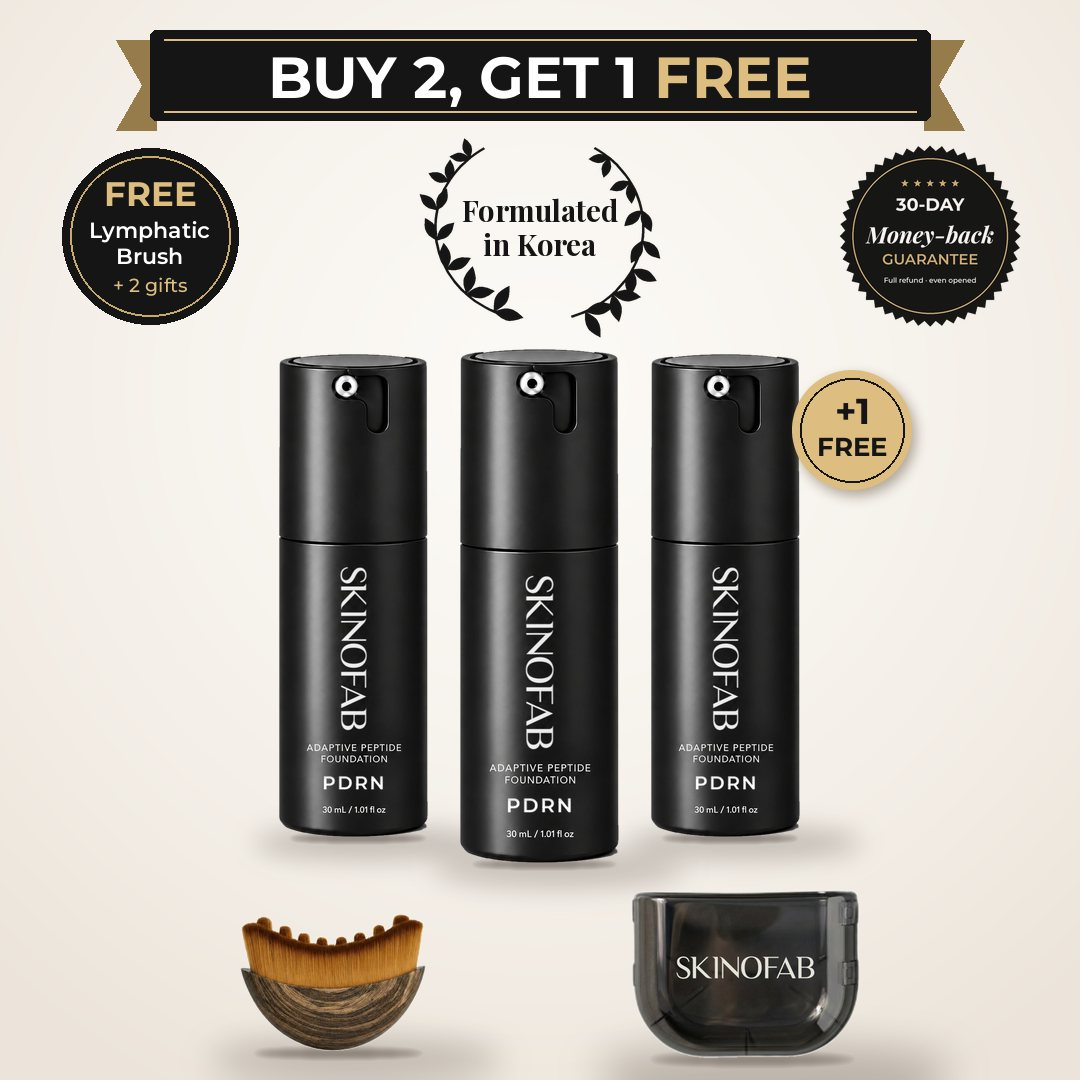
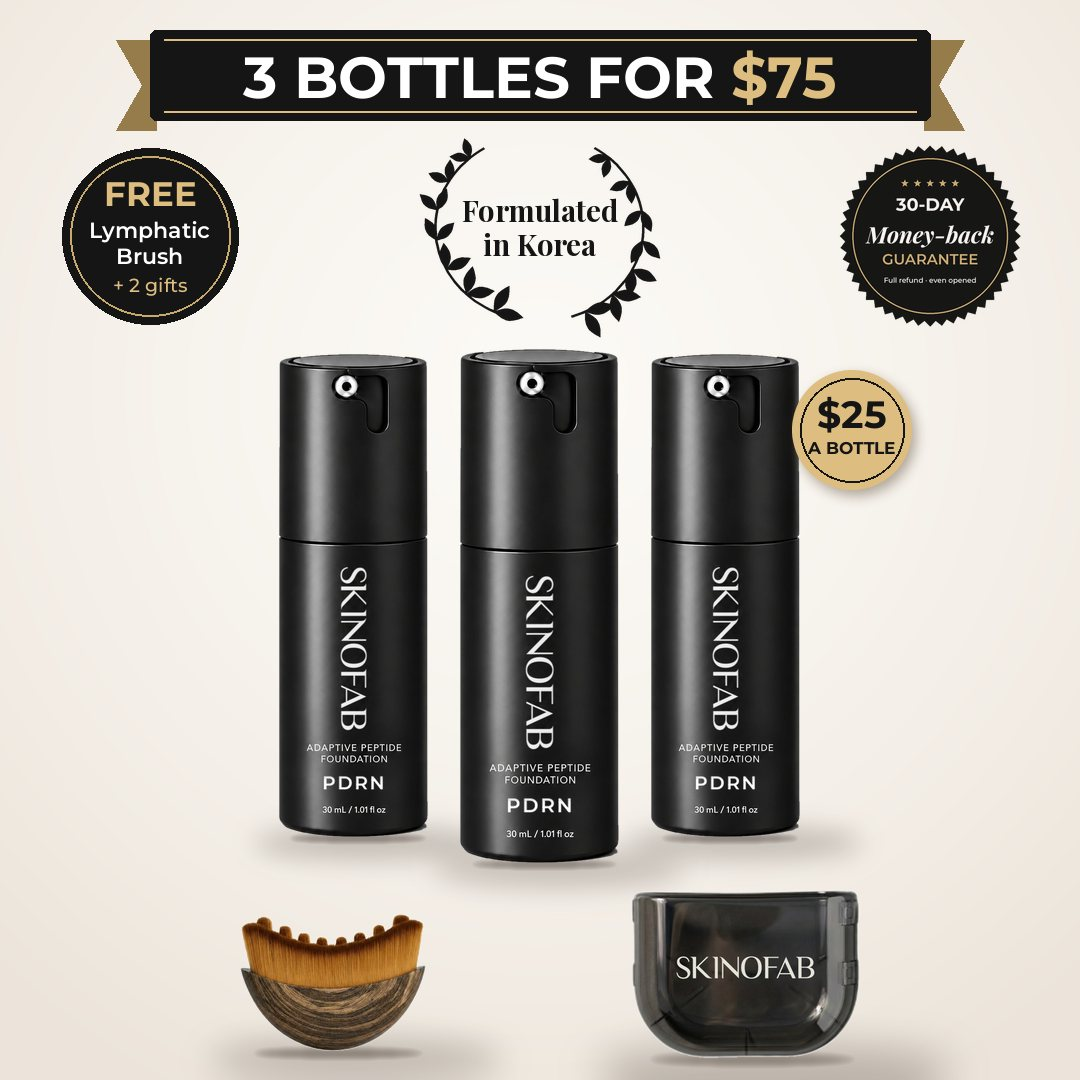
APF funnel: the 3-bottle pack is "3 bottles for $75, $25 a bottle", no free-bottle claim (owner, before the ads)
- Sales page, listicle and checkout: offer bars, hero deal line, pack tab and badge ("Best value"), pack rows (the
  "3rd bottle FREE" row gone), value stack and the listicle's offer box quote the price per bottle; offer-3.jpg's
  ribbon reads "3 BOTTLES FOR $75" with a "$25 a bottle" tag. No price changed.
- check_apf.py fails any page that says buy 2 get 1 free, pay for 2, the 3rd bottle free or +1 free
- funnels/apf.py, copy deck and docs follow (live review 7, B1, decided by the owner)

Claude-Session: https://claude.ai/code/session_01DD3dpN8XTMfDVHXy9eWksc

Changed region(s): [[0.2139, 0.0306, 0.7944, 0.0917], [0.7333, 0.3667, 0.825, 0.4278]]

diff --git a/campaigns/skinofab/src/apf-funnel/adaptive-foundation-offer.html b/campaigns/skinofab/src/apf-funnel/adaptive-foundation-offer.html
@@ -23,8 +23,8 @@ meta_tags:
 # tools/funnel/apf/copy_deck.py; tools/funnel/apf/check_apf.py holds every price here to the live campaign and
 # every claim to the rules: adapts to your tone (never every tone), designed not to settle, no SPF, no study, no
 # doctor, no countdown, every AI portrait labelled.
-offer_bar: "BUY 2, GET 1 FREE + a FREE Lymphatic Brush · Free shipping · 30-day money-back guarantee"
-offer_bar_short: "Buy 2, get 1 FREE"
+offer_bar: "3 BOTTLES FOR $75 + a FREE Lymphatic Brush · Free shipping · 30-day money-back guarantee"
+offer_bar_short: "3 bottles for $75"
 hero:
   eyebrow: "For skin after 45"
   headline: "Even, fresh skin in about a minute. <em>No shade to guess.</em>"
@@ -37,8 +37,9 @@ hero:
     - "<strong>30-day money-back guarantee,</strong> even opened."
   trust: ["4.8 out of 5 from 9,855 reviews at our earlier store", "Formulated in Korea", "One-time purchase, free shipping"]
   button: "CHOOSE MY PACK ↓"
-  # the buy-2-get-1-free offer (the owner, 29 Oct 2026), true as priced: 3 bottles are $75, 2 single bottles $78
-  deal: "<strong>Buy 2, get 1 FREE</strong> · 3 bottles for $75, less than two single bottles ($78)"
+  # the 3-bottle pack at its price per bottle (the owner, 29 Oct 2026, before the ads: no "buy 2, get 1 free", which the
+  # $57 2-bottle pack beside it made untrue; live review 7, B1)
+  deal: "<strong>3 bottles for $75</strong> · $25 a bottle, with a free Lymphatic Brush"
   note: "$25 a bottle in the 3-pack · Free shipping · Pay with card, PayPal, Apple Pay, Klarna or Link"
   image: "images/sf/wow.jpg"
   image_alt: "A woman in her late fifties: white foundation dots on one side of her face, the other side blended into her own tone"
@@ -58,7 +59,7 @@ guarantee:
 # the packs: campaign packages 6, 7, 8 (one-time, free shipping); the crossed-out price is the store's $47 times the bottles
 offer:
   title: "Choose your pack"
-  lead: "<strong>Buy 2, get 1 FREE</strong> in the 3-bottle pack, with the free Lymphatic Brush. Every pack is a one-time purchase and ships free."
+  lead: "<strong>3 bottles for $75</strong>, $25 a bottle, with the free Lymphatic Brush. Every pack is a one-time purchase and ships free."
   button: "GET MY FOUNDATION"
   trust: ["Free shipping", "Ships in 1 business day", "Secure checkout", "30-day money-back guarantee"]
   once: "One-time purchase. Nothing renews, and nothing is added at checkout: shipping is free."
@@ -88,17 +89,16 @@ packs:
   - id: "apf-3"
     package: 3
     name: "3 bottles"
-    short: "3 bottles · Buy 2, get 1 FREE"
-    supply: "Pay for 2, the 3rd is FREE · about three months · $25 a bottle"
+    short: "3 bottles · $25 a bottle"
+    supply: "About three months · $25 a bottle"
     price: "$75"
     compare: "$141"
     save: "SAVE $66"
-    tab: "Buy 2, get 1 FREE"
+    tab: "Best value"
     deal: true
     selected: true
-    label: "3 bottles (buy 2, get 1 free) with 3 free gifts, free shipping"
+    label: "3 bottles with 3 free gifts, free shipping"
     gifts:
-      - { image: "images/sf/pack-1.jpg", name: "3rd bottle FREE", value: "$39" }
       - { image: "images/sf/brush-card.jpg", name: "FREE Lymphatic Brush + case", value: "$24.95" }
       - { image: "images/sf/gift-blender.jpg", name: "FREE SKINOFAB Blender sponge", value: "$9" }
       - { image: "images/sf/gift-mystery.jpg", name: "FREE Mystery gift", value: "$15" }
@@ -268,17 +268,17 @@ guarantee_section:
   why: "We can promise this because of what 9,855 reviews say about it. Read them above, then decide in your own light."
 value:
   eyebrow: "Your launch offer"
-  title: "Buy 2, get the 3rd bottle FREE"
+  title: "3 bottles for $75, the brush and gifts free"
   stack:
-    - { item: "3 bottles of Adaptive Peptide Foundation: pay for 2, the 3rd is free (about three months)", value: "$141" }
+    - { item: "3 bottles of Adaptive Peptide Foundation (about three months)", value: "$141" }
     - { item: "The Lymphatic Brush with its travel case", value: "$24.95" }
     - { item: "The SKINOFAB Blender sponge", value: "$9" }
     - { item: "A mystery gift from our range", value: "$15" }
     - { item: "Free shipping, tracked", value: "included" }
     - { item: "30-day money-back guarantee", value: "included" }
   total: { item: "Total value", value: "$189.95" }
-  today: { item: "Buy 2, get 1 FREE, today", value: "$75" }
-  math: "Two single bottles cost $78 here. The 3-bottle pack is $75: you pay less than for two, and the third bottle, the brush and both gifts come free."
+  today: { item: "Your price today", value: "$75" }
+  math: "That is $25 a bottle: one bottle is $39 here and $47 bought once in our store. The brush and both gifts come free."
   why_now: "<strong>Why the 3-bottle pack is only here:</strong> our store has no 3-bottle pack, and none of its foundation packs comes with the Lymphatic Brush; one bottle there is $47 bought once. The 3-bottle pack with the free brush is made for this launch. There is no countdown on this page, and no pack costs more than it says here."
 scarcity:
   title: "What is limited"
@@ -649,7 +649,7 @@ closing:
       <div>
         <p class="sf-eyebrow">{{ value.eyebrow }}</p>
         <h2 class="sf-h2 sf-h2--big">{{ value.title }}</h2>
-        <img src="{{ 'images/sf/offer-3.jpg' | campaign_asset }}" alt="Buy 2, get 1 free: three bottles of Adaptive Peptide Foundation, the third marked free, with the free Lymphatic Brush and its case, under three badges: free Lymphatic Brush and 2 gifts, formulated in Korea, 30-day money-back guarantee" width="1080" height="1080" loading="lazy" decoding="async" class="sf-value__img">
+        <img src="{{ 'images/sf/offer-3.jpg' | campaign_asset }}" alt="3 bottles for $75: three bottles of Adaptive Peptide Foundation, $25 a bottle, with the free Lymphatic Brush and its case, under three badges: free Lymphatic Brush and 2 gifts, formulated in Korea, 30-day money-back guarantee" width="1080" height="1080" loading="lazy" decoding="async" class="sf-value__img">
         <ul class="sf-stack">
           {% for s in value.stack %}<li><span>{{ s.item }}</span><span>{{ s.value }}</span></li>{% endfor %}
           <li class="sf-stack__total"><span>{{ value.total.item }}</span><span>{{ value.total.value }}</span></li>

diff --git a/campaigns/skinofab/src/apf-funnel/10-reasons-adaptive-foundation.html b/campaigns/skinofab/src/apf-funnel/10-reasons-adaptive-foundation.html
@@ -26,8 +26,8 @@ meta_tags:
 # one with their photos, the packshots on natural shadows, the offer box rebuilt around a wordless flat lay and a
 # value stack. Every claim is the sales page's: adapts to your tone (never every tone), designed not to settle, no
 # SPF, no study, no doctor, no countdown.
-offer_bar: "BUY 2, GET 1 FREE + a FREE Lymphatic Brush · Free shipping"
-offer_bar_short: "Buy 2, get 1 FREE"
+offer_bar: "3 BOTTLES FOR $75 + a FREE Lymphatic Brush · Free shipping"
+offer_bar_short: "3 bottles for $75"
 headline: "10 Reasons Why Women Over 45 Look Fresher With This ‘Shade-Adapting’ Foundation"
 subhead: "It goes on white and adapts to your skin tone as you blend, in a hydrating serum made for skin after 45: no shade to guess, a finish designed not to settle into lines, about a minute with your fingertips."
 intro:
@@ -142,20 +142,20 @@ mid_cta:
 # the lowest price, no value table; every button opens the sales page, where she reads the rest and picks her pack
 cta:
   eyebrow: "Your launch offer"
-  title: "Buy 2, get 1 FREE + a FREE Lymphatic Brush"
+  title: "3 bottles for $75 + a FREE Lymphatic Brush"
   points:
-    - "<strong>The 3rd bottle free</strong> when you buy 2"
+    - "<strong>$25 a bottle</strong> in the 3-bottle pack"
     - "<strong>FREE Lymphatic Brush</strong>, a Blender sponge and a mystery gift"
     - "<strong>Free shipping</strong>, one-time purchase, nothing renews"
     - "<strong>30-day money-back guarantee</strong>, even opened"
   from: "$25"
   from_unit: "a bottle"
-  from_note: "With buy 2, get 1 FREE. Or start with 1 bottle for $39."
+  from_note: "In the 3-bottle pack ($75). Or start with 1 bottle for $39."
   button: "SEE THE OFFER →"
   note: "FREE SHIPPING · ONE-TIME PURCHASE · 30-DAY MONEY-BACK GUARANTEE"
   image_alt: "The Adaptive Peptide Foundation: three bottles with the free Lymphatic Brush and its case"
-  price: "From $25 a bottle with buy 2, get 1 FREE (3 bottles for $75, less than two single bottles at $78), or 1 bottle for $39. One-time purchase: nothing renews. This offer is only in this launch; our store sells one bottle for $47."
-  text: "Buy 2, get 1 FREE: from $25 a bottle, with a FREE Lymphatic Brush, 2 free gifts and free shipping. Or 1 bottle for $39."
+  price: "From $25 a bottle in the 3-bottle pack ($75), or 1 bottle for $39. One-time purchase: nothing renews. This offer is only in this launch; our store sells one bottle for $47."
+  text: "From $25 a bottle, with a FREE Lymphatic Brush, 2 free gifts and free shipping. Or 1 bottle for $39."
 reviews:
   excellent: "Rated"
   stars: "4.8 out of 5 · 9,855 reviews of this foundation"

diff --git a/campaigns/skinofab/src/apf-funnel/foundation-checkout.html b/campaigns/skinofab/src/apf-funnel/foundation-checkout.html
@@ -160,8 +160,8 @@ bundles:
     image: "images/sf/pack-3.jpg"
     name: "Adaptive Peptide Foundation - 3 bottles + free gifts + free Lymphatic Brush"
     price: "$75.00"
-    subtitle_text: "One-time. Buy 2, get 1 FREE: pay for 2, the 3rd bottle is free. Free shipping, a free Lymphatic Brush, a free Blender sponge and a free mystery gift"
-    badge_text: "Buy 2, get 1 FREE"
+    subtitle_text: "One-time. $25 a bottle. Free shipping, a free Lymphatic Brush, a free Blender sponge and a free mystery gift"
+    badge_text: "Best value"
     badge_pill_class: "os-card__label--pill-primary"
   - id: "apf-1"
     package_id: 1
@@ -175,7 +175,7 @@ bundles:
 # the order too) and by the button; sf-checkout.js keeps the pack's line in step with the chosen card
 pay_terms:
   apf-2: "2 bottles with a free Blender sponge and a free mystery gift"
-  apf-3: "3 bottles (buy 2, get 1 free) with a free Lymphatic Brush, a free Blender sponge and a free mystery gift"
+  apf-3: "3 bottles with a free Lymphatic Brush, a free Blender sponge and a free mystery gift"
   apf-1: "1 bottle"
 once_terms: "A one-time purchase: nothing renews and nothing else is charged. Every pack has the same 30-day money-back guarantee. Contains salmon-derived PDRN: not for anyone with a fish allergy. Questions? Email <a href=\"mailto:info@skinofab.com\">info@skinofab.com</a> or call <a href=\"tel:+15632395520\">+1 (563) 239-5520</a>: a person replies within one business day."
 # the exit pop: the bottle (the pack she picked may not be the 3-pack), one offer said once, the saving applied at the button

diff --git a/tools/funnel/apf/images.py b/tools/funnel/apf/images.py
@@ -224,9 +224,9 @@ def pack_cards():
 
     for n, wb, name in ((1, False, 'pack-1'), (2, False, 'pack-2'), (3, True, 'pack-3'), (6, True, 'pack-6')):
         save(scene(n, wb, 900, 'white'), name, size=700)
-    # the sales page's 3-pack: the buy-2-get-1-free ribbon over its three badges (the owner, 29 Oct 2026: "add the offer
-    # of buy 2 get one free"; true as priced: 3 bottles are $75, 2 single bottles $78), the scene a little smaller
-    # under them, and a "+1 FREE" tag beside the third bottle's cap (never on a label)
+    # the sales page's 3-pack: a "3 bottles for $75" ribbon over its three badges, the scene a little smaller under them,
+    # and a "$25 a bottle" tag beside the third bottle's cap (never on a label). (It said "buy 2, get 1 free" until the
+    # owner chose, 29 Oct 2026, to drop that claim: the $57 2-bottle pack beside it made it untrue, live review 7.)
     k, A, s3 = 0.86, 1050, 1080 / 900
     items = [(bot, 270, 670, 470), (bot, 630, 670, 470), (bot, 450, 695, 500), (brush, 250, 878, 135), (case, 650, 884, 165)]
     im = stage(1080, [(o, 540 + (x * s3 - 540) * k, A - (A - y * s3) * k, h * s3 * k) for o, x, y, h in items], 'warm')
@@ -237,7 +237,7 @@ def pack_cards():
     d.polygon([(x1 + 34, y0 + 10), (x1 - 6, y0 + 10), (x1 - 6, y1 + 10), (x1 + 34, y1 + 10), (x1 + 34 - notch, (y0 + y1) / 2 + 10)], fill=(150, 124, 74))
     d.rounded_rectangle((x0, y0, x1, y1), radius=6, fill=INK)
     d.line((x0 + 14, y0 + 9, x1 - 14, y0 + 9), fill=GOLD, width=2); d.line((x0 + 14, y1 - 9, x1 - 14, y1 - 9), fill=GOLD, width=2)
-    f = P.sans(58, 'Bold'); a, b = 'BUY 2, GET 1 ', 'FREE'
+    f = P.sans(58, 'Bold'); a, b = '3 BOTTLES FOR ', '$75'
     wa, wb = d.textlength(a, font=f), d.textlength(b, font=f)
     tx = (x0 + x1) / 2 - (wa + wb) / 2
     d.text((tx, (y0 + y1) / 2 + 2), a, font=f, fill=PAPER, anchor='lm'); d.text((tx + wa, (y0 + y1) / 2 + 2), b, font=f, fill=GOLD, anchor='lm')
@@ -253,7 +253,7 @@ def pack_cards():
     d.text((540, 256), 'in Korea', font=P.serif(29, 'Bold'), fill=INK, anchor='ms')
     seal = Image.open(OUT / 'guarantee-seal.png').convert('RGBA'); seal.thumbnail((184, 184), Image.LANCZOS)
     im.paste(seal, (1080 - 58 - seal.width, 236 - seal.height // 2), seal)
-    tag = Image.new('L', (4 * 120, 4 * 120), 0); ImageDraw.Draw(tag).ellipse((0, 0, 479, 479), fill=255)   # the +1 FREE tag
+    tag = Image.new('L', (4 * 120, 4 * 120), 0); ImageDraw.Draw(tag).ellipse((0, 0, 479, 479), fill=255)   # the $25 a bottle tag
     tag = tag.resize((120, 120), Image.LANCZOS)
     tx, ty = 852, 430
     sh = Image.new('L', im.size, 0); sh.paste(tag, (tx - 60 + 4, ty - 60 + 6)); sh = sh.filter(ImageFilter.GaussianBlur(6))
@@ -261,8 +261,8 @@ def pack_cards():
     im.paste(Image.new('RGB', (120, 120), GOLD), (tx - 60, ty - 60), tag)
     d = ImageDraw.Draw(im)
     d.ellipse((tx - 52, ty - 52, tx + 52, ty + 52), outline=INK, width=2)
-    d.text((tx, ty - 6), '+1', font=P.sans(36, 'Bold'), fill=INK, anchor='ms')
-    d.text((tx, ty + 26), 'FREE', font=P.sans(26, 'Bold'), fill=INK, anchor='ms')
+    d.text((tx, ty - 2), '$25', font=P.sans(38, 'Bold'), fill=INK, anchor='ms')
+    d.text((tx, ty + 24), 'A BOTTLE', font=P.sans(17, 'Bold'), fill=INK, anchor='ms')
     save(im, 'offer-3', size=1080)
     save(ground(bottle(1080)), 'bottle', size=1080)
 

diff --git a/tools/funnel/apf/copy_deck.py b/tools/funnel/apf/copy_deck.py
@@ -125,7 +125,7 @@ def write(fm):
            '- **Big idea:** the shade that matched at 45 looks wrong at 56 because her tone moved and her skin got drier; a foundation that adapts to her tone, in a serum made for skin after 45, ends the shade guessing.',
            '- **Problem mechanism (07):** the fixed-shade trap: several tones in one face, thinner and drier skin, formulas built for 25-year-old skin.',
            '- **Solution mechanism (08):** encapsulated pigments that go on white and open toward her tone, in a hydrating serum base with soft-focus powders and the actives named on the label.',
-           '- **Offer architecture:** 1 bottle $39 ($47 in our store), 2 bottles $57 with the Blender sponge and a mystery gift (two months), 3 bottles $75 with the Lymphatic Brush and both gifts (\"Buy 2, get 1 FREE\": less than two single bottles at $78; the sales page opens on it); one-time, free shipping, 30-day money-back guarantee even opened, nothing to send back. Post-purchase: offer 1 supply cards (2 bottles $39, 6 bottles $99 with the brush), offer 2 one bottle $23 (downsell $19), offer 3 the brush $14 (downsell $9).',
+           '- **Offer architecture:** 1 bottle $39 ($47 in our store), 2 bottles $57 with the Blender sponge and a mystery gift (two months), 3 bottles $75 with the Lymphatic Brush and both gifts ($25 a bottle, \"Best value\"; the sales page opens on it); one-time, free shipping, 30-day money-back guarantee even opened, nothing to send back. Post-purchase: offer 1 supply cards (2 bottles $39, 6 bottles $99 with the brush), offer 2 one bottle $23 (downsell $19), offer 3 the brush $14 (downsell $9).',
            '- **Proof inventory:** 9,855 imported reviews of this foundation (4.8), the buyers\' own photos, the actives printed on the label and box, formulated in Korea, the guarantee, the owner’s before/after photos; no clinical study, no medical claim, no fabricated review.',
            '- **Urgency:** honest only: the launch gift (the brush) while launch stock lasts, the price only on this page; no countdown.', '']
     for title, lines in deck(fm):

diff --git a/tools/funnel/apf/check_apf.py b/tools/funnel/apf/check_apf.py
@@ -93,6 +93,12 @@ FORBIDDEN = [
     (r'\blowest price we will ever\b', 'a "lowest ever" price (the downsells go lower)'),
     (r'\blowest single-bottle price anywhere\b', 'a "lowest anywhere" price on offer 2 (its downsell goes lower)'),
     (r'\bsix for the price of three\b', '"six for the price of three" (no shown price backs it)'),
+    # live review 7, B1 (the owner, 29 Oct 2026, before the ads): the 3-bottle pack is "3 bottles for $75, $25 a bottle";
+    # "buy 2, get 1 free" beside the $57 2-bottle pack made the free bottle cost $18
+    (r'\bbuy\s+(?:2|two),?\s+get\s+(?:1|one)\b', '"buy 2, get 1 free" (the 2-bottle pack costs $57)'),
+    (r'\b(?:3rd|third)\s+(?:bottle\s+)?(?:is\s+)?free\b', '"the 3rd bottle free" (the 2-bottle pack costs $57)'),
+    (r'\bpay\s+for\s+(?:2|two)\b', '"pay for 2" (the 2-bottle pack costs $57)'),
+    (r'\+\s?1\s+free\b', '"+1 free" (the 2-bottle pack costs $57)'),
 ]
 # SPF may only be mentioned as what the foundation does not have, or as her own sunscreen under it
 SPF_OK = re.compile(r"(?:no|not an?|has no|without|doesn[’']t have|does it have|left)\s+SPF|SPF\s+out\b|SPF\?|"

diff --git a/tools/funnel/funnels/apf.py b/tools/funnel/funnels/apf.py
@@ -46,7 +46,7 @@ PACKS = [
      'gifts': ['blender', 'mystery'], 'name': '2 bottles', 'supply': 'About two months', 'tab': '2 months’ supply'},
     {'key': 'apf-3-gifts', 'bundle': 'apf-3', 'package': 3, 'bottles': 3, 'price': 75.00, 'compare': 141.00,
      'gifts': ['blender', 'mystery', 'brush'], 'name': '3 bottles', 'supply': 'About three months', 'selected': True,
-     'tab': 'Buy 2, get 1 FREE'},   # true as priced: 3 bottles $75, 2 single bottles $78 (the owner, 29 Oct 2026)
+     'tab': 'Best value'},   # $25 a bottle; no "buy 2, get 1 free" beside the $57 2-pack (the owner, 29 Oct 2026)
 ]
 GIFTS = {'blender': ('SKINOFAB Blender brush', 9.00), 'mystery': ('Mystery gift', 15.00), 'brush': ('The Lymphatic Brush', 24.95)}
 

diff --git a/docs/apf-funnel.md b/docs/apf-funnel.md
@@ -564,7 +564,7 @@ Lifecycle on this build (development render, as run 4): build recorded, polish R
 (the Axon lines the only gated difference), deploy recorded, browser QA `MVT575T3RRMFFAENF3TIHN9Q9V` ready_with_exceptions
 (the same two exceptions).
 
-**Owner's changes, 29 Oct 2026 (before the ads):** *Buy 2, get 1 FREE.* The 3-bottle pack is framed as buy 2, get 1 free, which is true as priced: it is $75 and two single bottles are $78. The sales page opens on it (its frontmatter `selected`; the buy button's and sticky bar's first href and price follow the selected pack in Liquid, so nothing jumps before `sf-apf.js` runs). It says so in the offer bar, a deal line above the hero button, the pack's gold "Buy 2, get 1 FREE" tab with a "3rd bottle FREE ($39)" row in its gifts, the offer box's lead, the value stack ("Buy 2, get the 3rd bottle FREE" and the $78-versus-$75 line) and `offer-3.jpg` (a ribbon over the three badges and a "+1 FREE" tag beside the third bottle's cap, drawn in `pack_cards()`). For message match, the checkout's 3-bottle card badge and pay line and the listicle's offer bar and offer box carry the same words. No price or offer changed in the campaign. *Support contacts.* Every customer-support contact is now **info@skinofab.com** and **+1 (563) 239-5520**: `tools/persona/company.py` (`EMAIL`, `PHONE`; its rewrite turns any `hello@` left into `info@`, and the store build fails on a `hello@`), `campaigns.json` (`store_email`, `store_phone`, `store_phone_tel`) and the CampaignSpec. The phone is on the store's footer, contact page, contact-information page, FAQ, Impressum and order-tracking help, and in both funnels' footers, checkout help lines, failsafes and the sales page's "how to reach us" (a Call us card and a call button). No calling hours are stated because none were given. Set the same two in the NEXT dashboard (`docs/company-details.md`). *The listicle's offer box* (the owner: "put the lower price possible or just send them the sales page") shows the deal in four lines and the lowest price, **from $25 a bottle** (or 1 bottle for $39). The $189.95 value table and the $75 total are gone. Every listicle button (the bar, the mid-article button, the box and the closing button) now opens the sales page itself, no longer its offer box, so the sales page makes the case before she picks a pack. *PDRN on the pack shots:* every pack image is shown 300–470 px wide, where the label's PDRN line was 3–4 px tall on a 1x screen and read "PORN". `bottle()` now draws it at twice the label's size, centred where it was (`pdrn=2.0`), in the listicle's `offer.jpg`, the sales page's `offer-3.jpg`, the pack cards and the exit pop's bottle.
+**Owner's changes, 29 Oct 2026 (before the ads):** *Buy 2, get 1 FREE* (since reworded to "3 bottles for $75, $25 a bottle": see review 7, B1). The 3-bottle pack is framed as buy 2, get 1 free, which is true as priced: it is $75 and two single bottles are $78. The sales page opens on it (its frontmatter `selected`; the buy button's and sticky bar's first href and price follow the selected pack in Liquid, so nothing jumps before `sf-apf.js` runs). It says so in the offer bar, a deal line above the hero button, the pack's gold "Buy 2, get 1 FREE" tab with a "3rd bottle FREE ($39)" row in its gifts, the offer box's lead, the value stack ("Buy 2, get the 3rd bottle FREE" and the $78-versus-$75 line) and `offer-3.jpg` (a ribbon over the three badges and a "+1 FREE" tag beside the third bottle's cap, drawn in `pack_cards()`). For message match, the checkout's 3-bottle card badge and pay line and the listicle's offer bar and offer box carry the same words. No price or offer changed in the campaign. *Support contacts.* Every customer-support contact is now **info@skinofab.com** and **+1 (563) 239-5520**: `tools/persona/company.py` (`EMAIL`, `PHONE`; its rewrite turns any `hello@` left into `info@`, and the store build fails on a `hello@`), `campaigns.json` (`store_email`, `store_phone`, `store_phone_tel`) and the CampaignSpec. The phone is on the store's footer, contact page, contact-information page, FAQ, Impressum and order-tracking help, and in both funnels' footers, checkout help lines, failsafes and the sales page's "how to reach us" (a Call us card and a call button). No calling hours are stated because none were given. Set the same two in the NEXT dashboard (`docs/company-details.md`). *The listicle's offer box* (the owner: "put the lower price possible or just send them the sales page") shows the deal in four lines and the lowest price, **from $25 a bottle** (or 1 bottle for $39). The $189.95 value table and the $75 total are gone. Every listicle button (the bar, the mid-article button, the box and the closing button) now opens the sales page itself, no longer its offer box, so the sales page makes the case before she picks a pack. *PDRN on the pack shots:* every pack image is shown 300–470 px wide, where the label's PDRN line was 3–4 px tall on a 1x screen and read "PORN". `bottle()` now draws it at twice the label's size, centred where it was (`pdrn=2.0`), in the listicle's `offer.jpg`, the sales page's `offer-3.jpg`, the pack cards and the exit pop's bottle.
 
 **Owner's fixes, 29 Oct 2026 (after the CRO pass):** the listicle's first before/after is the owner's olive-skin
 kitchen pair (`ba-glow` retired); the how-it-works loop (`howto_loop()` in `images.py`) is cropped clear of its baked
@@ -602,9 +602,14 @@ broken image or overflow; `r7-fixes.mjs` in the session's scratchpad checks each
   (minor 10); a tapped clip with sound pauses once scrolled off (minor 11); the 1440 sales intro and listicle top
   column are centred (minor 13); US spellings in brand copy (minor 14); the brush offer's how-to steps are page text
   under the loop, 15 px (minor 16).
-- **For the owner** (not changed here): *B1*, "Buy 2, get 1 FREE" at $75 beside the $57 2-bottle pack (the free bottle
-  then costs $18); *M3*, the white-coat clinic photo reads as a clinician presenting the product; *minor 1*, offer 2b's
-  $19 bottle is cheaper than offer 1's $19.50 a bottle.
+- **B1, decided by the owner (29 Oct 2026, before the AppLovin ads): reworded.** The 3-bottle pack is "3 bottles for
+  $75, $25 a bottle" with the free Lymphatic Brush and gifts, its tab and checkout badge "Best value"; the offer bars,
+  the hero deal line, the pack's rows, the value stack ("Your price today"; "$25 a bottle: one bottle is $39 here and
+  $47 bought once in our store"), the listicle's offer box and `offer-3.jpg` (ribbon "3 BOTTLES FOR $75", a "$25 a
+  bottle" tag) no longer say "buy 2, get 1 free", "pay for 2" or "3rd bottle free", and `check_apf.py` fails any page
+  that does. No price changed. Offer 1's "Add 1, get 1 FREE" stays: two bottles there cost $39, one bottle's price.
+- **For the owner** (not changed here): *M3*, the white-coat clinic photo reads as a clinician presenting the product;
+  *minor 1*, offer 2b's $19 bottle is cheaper than offer 1's $19.50 a bottle.
 
 **Live proof on try.skinofab.com (28 Oct 2026, after review 2's fixes were pushed):** order **101565** on campaign
 2221, placed by `live_order.mjs` with `--path decline,accept,decline --cookie preview_theme=34` (the store's page

diff --git a/docs/apf-funnel/copy-deck.md b/docs/apf-funnel/copy-deck.md
@@ -17,7 +17,7 @@ refund_url: https://try.skinofab.com/refund-policy/
 privacy_url: https://try.skinofab.com/privacy-policy/
 terms_url: https://try.skinofab.com/terms-of-service/
 contact_url: https://try.skinofab.com/contact/
-announcement: BUY 2, GET 1 FREE + a FREE Lymphatic Brush · Free shipping · 30-day money-back guarantee
+announcement: 3 BOTTLES FOR $75 + a FREE Lymphatic Brush · Free shipping · 30-day money-back guarantee
 disclaimer: Cosmetic claims only: the foundation evens the look of skin tone and keeps dry skin comfortable; it treats nothing and has no SPF. Individual results vary. Contains salmon-derived PDRN: not for anyone with a fish allergy. The before/after images are AI illustrations of what a thin layer of foundation does to the look of skin tone, not customer photos.
 ---
 
@@ -28,7 +28,7 @@ Generated by tools/funnel/apf/copy_deck.py from the sales page's frontmatter (ca
 - **Big idea:** the shade that matched at 45 looks wrong at 56 because her tone moved and her skin got drier; a foundation that adapts to her tone, in a serum made for skin after 45, ends the shade guessing.
 - **Problem mechanism (07):** the fixed-shade trap: several tones in one face, thinner and drier skin, formulas built for 25-year-old skin.
 - **Solution mechanism (08):** encapsulated pigments that go on white and open toward her tone, in a hydrating serum base with soft-focus powders and the actives named on the label.
-- **Offer architecture:** 1 bottle $39 ($47 in our store), 2 bottles $57 with the Blender sponge and a mystery gift (two months), 3 bottles $75 with the Lymphatic Brush and both gifts ("Buy 2, get 1 FREE": less than two single bottles at $78; the sales page opens on it); one-time, free shipping, 30-day money-back guarantee even opened, nothing to send back. Post-purchase: offer 1 supply cards (2 bottles $39, 6 bottles $99 with the brush), offer 2 one bottle $23 (downsell $19), offer 3 the brush $14 (downsell $9).
+- **Offer architecture:** 1 bottle $39 ($47 in our store), 2 bottles $57 with the Blender sponge and a mystery gift (two months), 3 bottles $75 with the Lymphatic Brush and both gifts ($25 a bottle, "Best value"; the sales page opens on it); one-time, free shipping, 30-day money-back guarantee even opened, nothing to send back. Post-purchase: offer 1 supply cards (2 bottles $39, 6 bottles $99 with the brush), offer 2 one bottle $23 (downsell $19), offer 3 the brush $14 (downsell $9).
 - **Proof inventory:** 9,855 imported reviews of this foundation (4.8), the buyers' own photos, the actives printed on the label and box, formulated in Korea, the guarantee, the owner’s before/after photos; no clinical study, no medical claim, no fabricated review.
 - **Urgency:** honest only: the launch gift (the brush) while launch stock lasts, the price only on this page; no countdown.
 
@@ -76,13 +76,13 @@ After 45 your tone shifts and your skin gets drier. The shade that matched at 40
 
 ### Choose your pack
 
-<strong>Buy 2, get 1 FREE</strong> in the 3-bottle pack, with the free Lymphatic Brush. Every pack is a one-time purchase and ships free.
+<strong>3 bottles for $75</strong>, $25 a bottle, with the free Lymphatic Brush. Every pack is a one-time purchase and ships free.
 
 [OFFER: 1 bottle | $39 | $47 | About a month of daily use · free shipping | ]
 
 [OFFER: 2 bottles | $57 | $94 | About two months · $28.50 a bottle · free shipping · FREE SKINOFAB Blender sponge + FREE Mystery gift | 2 months’ supply]
 
-[OFFER: 3 bottles | $75 | $141 | Pay for 2, the 3rd is FREE · about three months · $25 a bottle · free shipping · 3rd bottle FREE + FREE Lymphatic Brush + case + FREE SKINOFAB Blender sponge + FREE Mystery gift | Buy 2, get 1 FREE]
+[OFFER: 3 bottles | $75 | $141 | About three months · $25 a bottle · free shipping · FREE Lymphatic Brush + case + FREE SKINOFAB Blender sponge + FREE Mystery gift | Best value]
 
 [CTA: GET MY FOUNDATION | https://try.skinofab.com/foundation-checkout/?forceBundleId=apf-2]
 
@@ -312,13 +312,13 @@ We can promise this because of what 9,855 reviews say about it. Read them above,
 
 ## 16 · Highlight an Irresistible Offer with Urgency
 
-### Buy 2, get the 3rd bottle FREE
+### 3 bottles for $75, the brush and gifts free
 
 | What you get | Value |
 
 |---|---|
 
-| 3 bottles of Adaptive Peptide Foundation: pay for 2, the 3rd is free (about three months) | $141 |
+| 3 bottles of Adaptive Peptide Foundation (about three months) | $141 |
 
 | The Lymphatic Brush with its travel case | $24.95 |
 
@@ -332,11 +332,11 @@ We can promise this because of what 9,855 reviews say about it. Read them above,
 
 | **Total value** | **$189.95** |
 
-| **Buy 2, get 1 FREE, today** | **$75** |
+| **Your price today** | **$75** |
 
 **Why the 3-bottle pack is only here:** our store has no 3-bottle pack, and none of its foundation packs comes with the Lymphatic Brush; one bottle there is $47 bought once. The 3-bottle pack with the free brush is made for this launch. There is no countdown on this page, and no pack costs more than it says here.
 
-[OFFER: 3 bottles | $75 | $141 | Pay for 2, the 3rd is FREE · about three months · $25 a bottle · free shipping · 3rd bottle FREE + FREE Lymphatic Brush + case + FREE SKINOFAB Blender sponge + FREE Mystery gift | Buy 2, get 1 FREE]
+[OFFER: 3 bottles | $75 | $141 | About three months · $25 a bottle · free shipping · FREE Lymphatic Brush + case + FREE SKINOFAB Blender sponge + FREE Mystery gift | Best value]
 
 [CTA: GET MY FOUNDATION | https://try.skinofab.com/foundation-checkout/?forceBundleId=apf-3]
 
